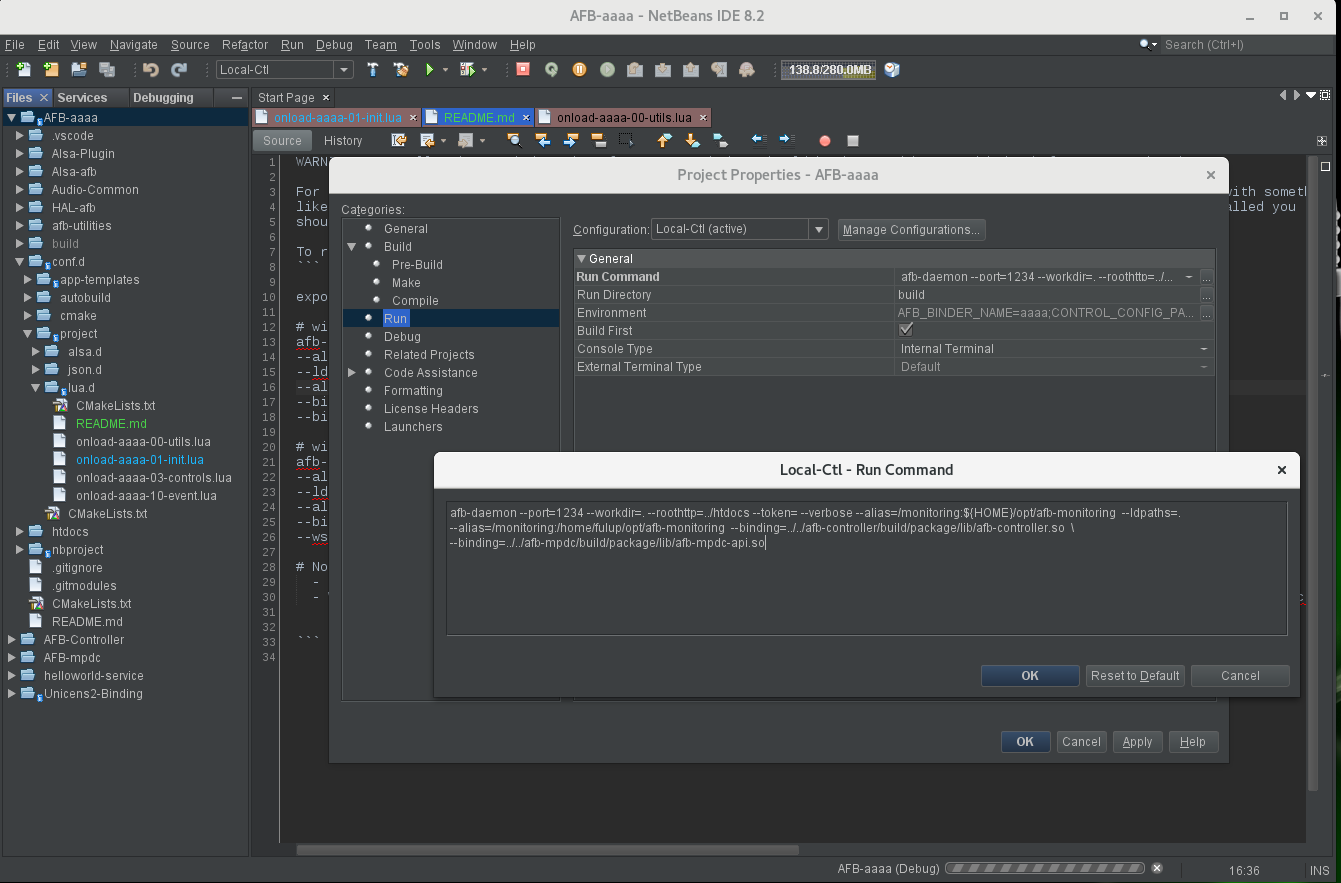
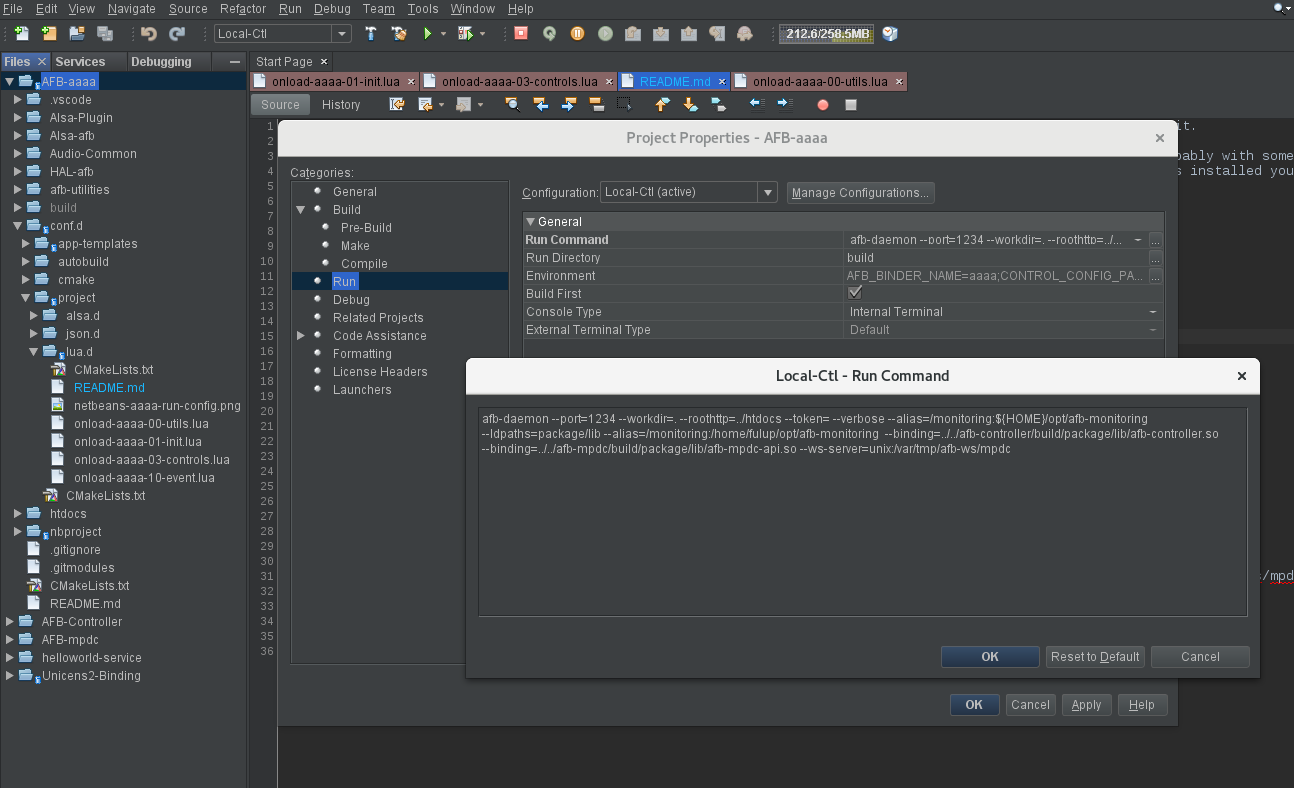
Fix Alsacore ctlget in form ctl={id:xxx}

diff --git a/Alsa-afb/Alsa-SetGet.c b/Alsa-afb/Alsa-SetGet.c
@@ -76,12 +76,18 @@ PUBLIC void NumidsListParse(ActionSetGetT action, queryValuesT *queryValues, ctl
 
             case json_type_object:
                 // numid+values formated as {id:xxx, val:[aa,bb...,nn]}
-                if (!json_object_object_get_ex(ctlRequest[idx].jToken, "id", &jId) || !json_object_object_get_ex(ctlRequest[idx].jToken, "val", &valuesJ)) {
-                    AFB_NOTICE("Invalid Json=%s missing 'id'|'val'", json_object_get_string(ctlRequest[idx].jToken));
+                if (!json_object_object_get_ex(ctlRequest[idx].jToken, "id", &jId)) {
+                    AFB_NOTICE("Invalid Json=%s missing 'id'", json_object_get_string(ctlRequest[idx].jToken));
                     ctlRequest[idx].used = -1;
                 } else {
                     ctlRequest[idx].numId = json_object_get_int(jId);
-                    if (action == ACTION_SET) ctlRequest[idx].valuesJ = valuesJ;
+                    if (action == ACTION_SET) {
+                        if (!json_object_object_get_ex(ctlRequest[idx].jToken, "val", &valuesJ)) {
+                            AFB_NOTICE("Invalid Json=%s missing 'val'", json_object_get_string(ctlRequest[idx].jToken));
+                            ctlRequest[idx].used = -1;                            
+                        } else
+                            ctlRequest[idx].valuesJ = valuesJ;                        
+                    }
                 }
                 break;
 

diff --git a/conf.d/project/lua.d/README.md b/conf.d/project/lua.d/README.md
@@ -12,10 +12,11 @@ export BUILD_DIR=build
 # with an internal MPDC (Pusic Player Daemon Client) API
 afb-daemon --port=1234 --workdir=. --roothttp=../htdocs --token= --verbose \
 --alias=/monitoring:$HOME/opt/afb-monitoring  \
---ldpaths=.  \
+--ldpaths=package/lib  \
 --alias=/monitoring:/home/fulup/opt/afb-monitoring  \
 --binding=../../afb-controller/$BUILD_DIR/package/lib/afb-controller.so  \
---binding=../../afb-mpdc/$BUILD_DIR/package/lib/afb-mpdc-api.so  
+--binding=../../afb-mpdc/$BUILD_DIR/package/lib/afb-mpdc-api.so  \
+--ws-server=unix:/var/tmp/afb-ws/mpdc
 
 # with an exernal MPDC API
 afb-daemon --port=1234 --workdir=. --roothttp=../htdocs --token= --verbose \
@@ -28,6 +29,8 @@ afb-daemon --port=1234 --workdir=. --roothttp=../htdocs --token= --verbose \
 # Note: 
   - Both sample make the assumption the monitoring HTML5 app is avaliable at $HOME/opt/afb-monitoring
   - With second sample you should obviously have your MPDC service exposing its API with --ws-server=unix:/var/tmp/afb-ws/mpdc
-  - Running AAAA from Netbeans  ![Sample config](netbeans-aaaa-run-config.png)
+  - Should use 'make populate' to get ./build/package/lib to be uptodate
 
 ```
+
+Running AAAA from you IDE ![Sample config](netbeans-aaaa-run-config.png)
